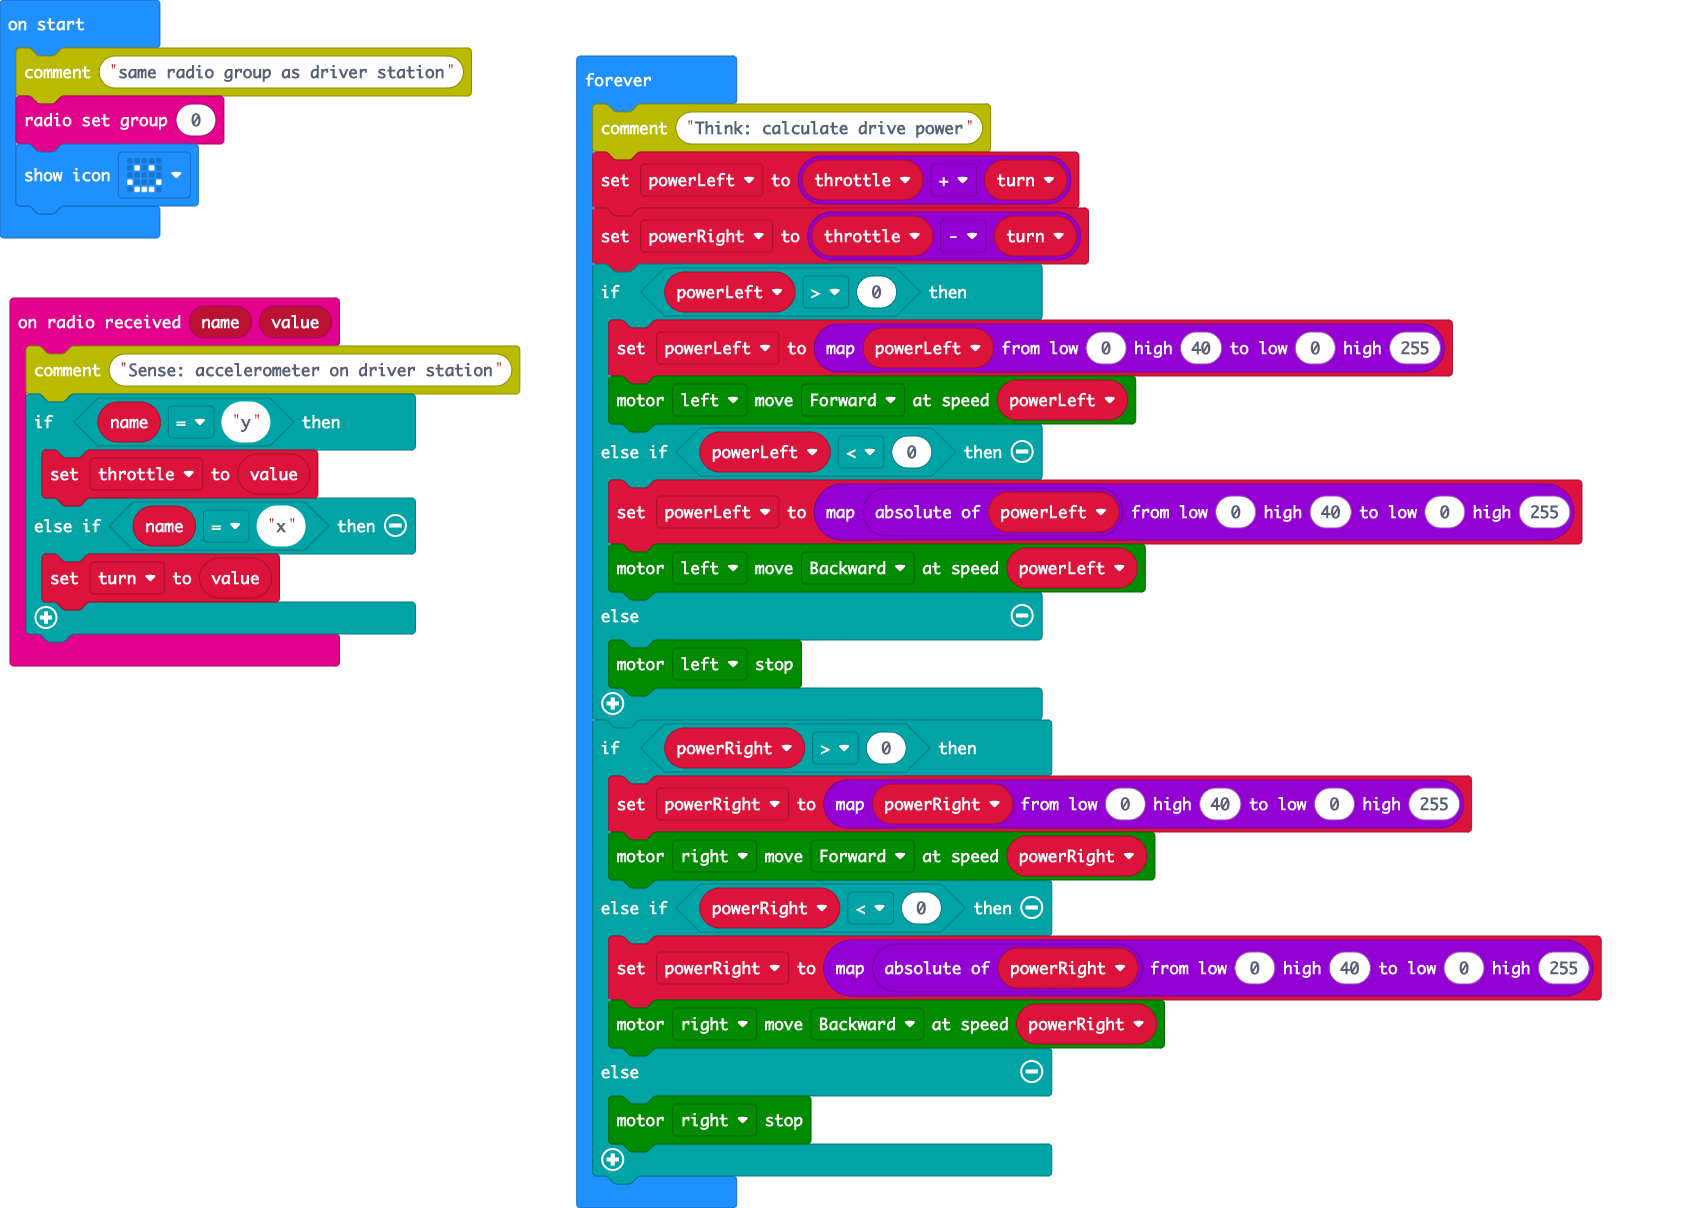
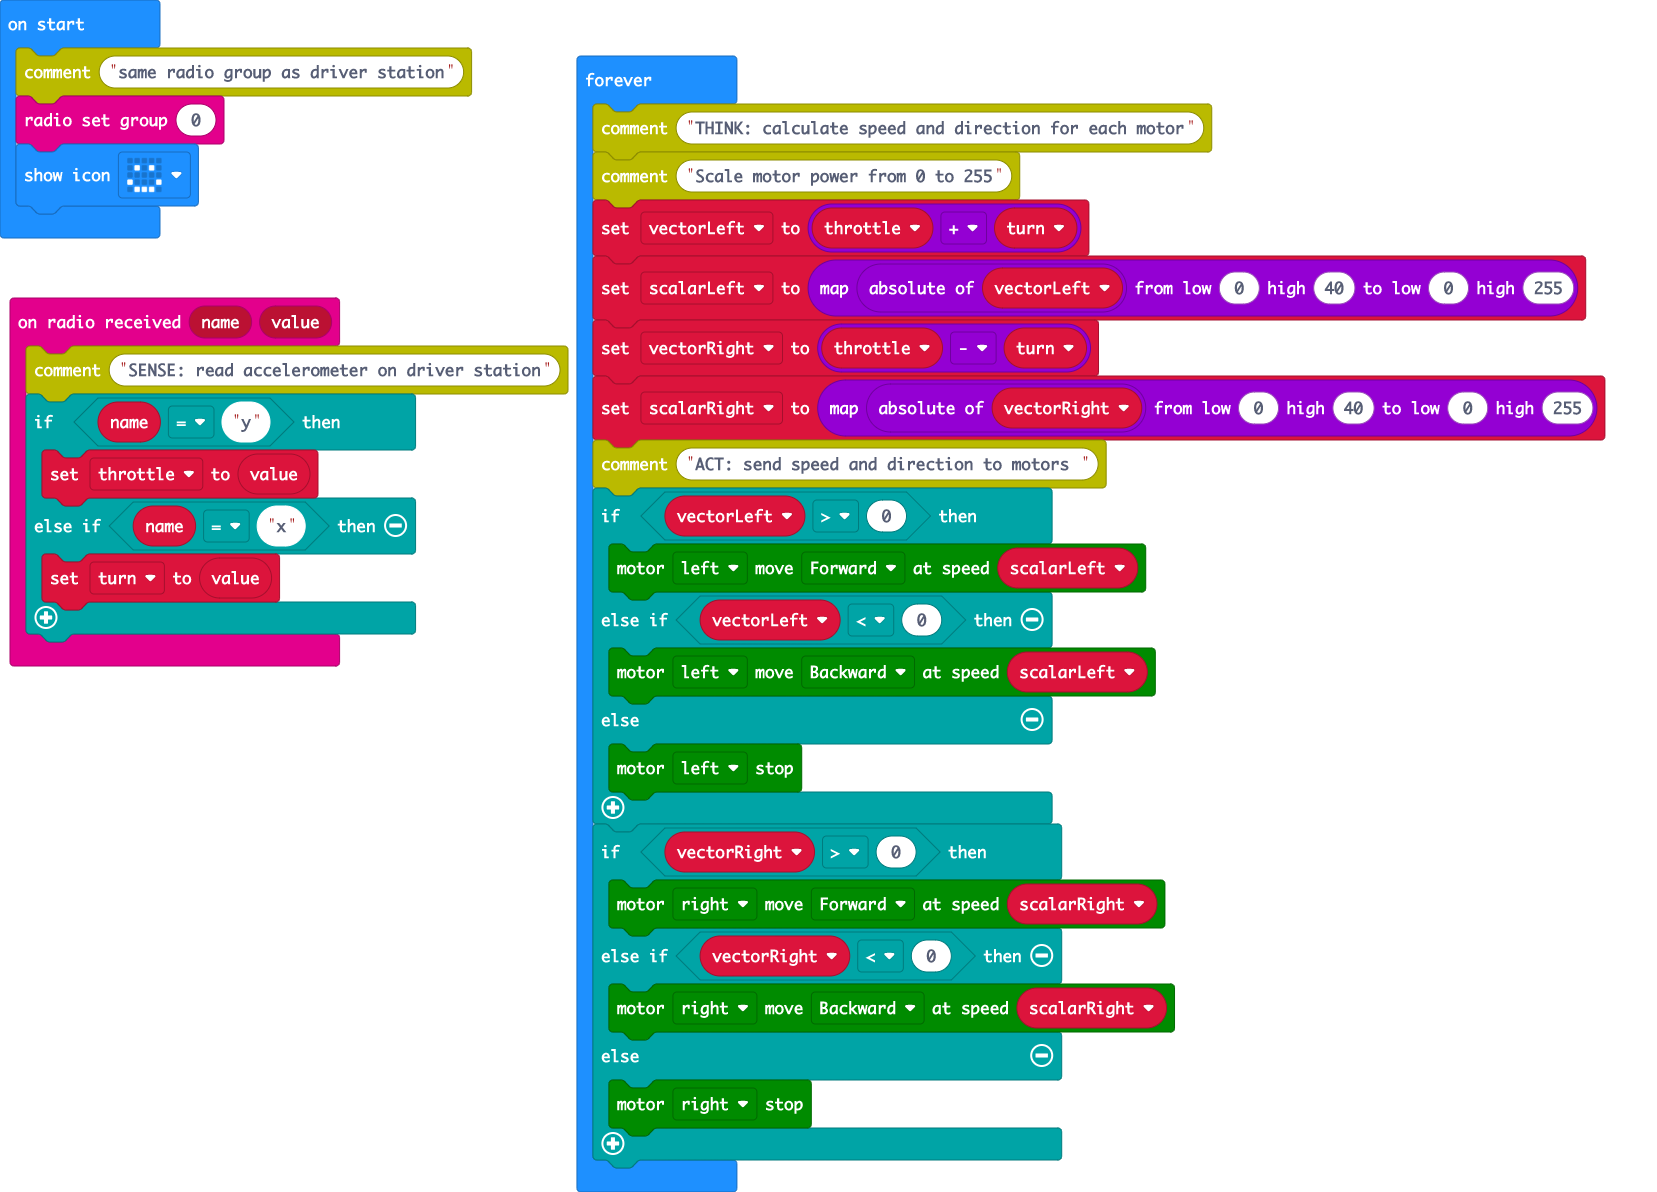
Update main.blocks, main.ts

diff --git a/main.ts b/main.ts
@@ -1,37 +1,39 @@
 radio.onReceivedValue(function (name, value) {
-    comment.comment("Sense: accelerometer on driver station")
+    comment.comment("SENSE: read accelerometer on driver station")
     if (name == "y") {
         throttle = value
     } else if (name == "x") {
         turn = value
     }
 })
-let powerRight = 0
-let powerLeft = 0
+let scalarRight = 0
+let vectorRight = 0
+let scalarLeft = 0
+let vectorLeft = 0
 let turn = 0
 let throttle = 0
 comment.comment("same radio group as driver station")
 radio.setGroup(0)
 basic.showIcon(IconNames.Happy)
 basic.forever(function () {
-    comment.comment("Think: calculate drive power")
-    powerLeft = throttle + turn
-    powerRight = throttle - turn
-    if (powerLeft > 0) {
-        powerLeft = Math.map(powerLeft, 0, 40, 0, 255)
-        maqueen.motorRun(maqueen.Motors.M1, maqueen.Dir.CW, powerLeft)
-    } else if (powerLeft < 0) {
-        powerLeft = Math.map(Math.abs(powerLeft), 0, 40, 0, 255)
-        maqueen.motorRun(maqueen.Motors.M1, maqueen.Dir.CCW, powerLeft)
+    comment.comment("THINK: calculate speed and direction for each motor")
+    comment.comment("Scale motor power from 0 to 255")
+    vectorLeft = throttle + turn
+    scalarLeft = Math.map(Math.abs(vectorLeft), 0, 40, 0, 255)
+    vectorRight = throttle - turn
+    scalarRight = Math.map(Math.abs(vectorRight), 0, 40, 0, 255)
+    comment.comment("ACT: send speed and direction to motors ")
+    if (vectorLeft > 0) {
+        maqueen.motorRun(maqueen.Motors.M1, maqueen.Dir.CW, scalarLeft)
+    } else if (vectorLeft < 0) {
+        maqueen.motorRun(maqueen.Motors.M1, maqueen.Dir.CCW, scalarLeft)
     } else {
         maqueen.motorStop(maqueen.Motors.M1)
     }
-    if (powerRight > 0) {
-        powerRight = Math.map(powerRight, 0, 40, 0, 255)
-        maqueen.motorRun(maqueen.Motors.M2, maqueen.Dir.CW, powerRight)
-    } else if (powerRight < 0) {
-        powerRight = Math.map(Math.abs(powerRight), 0, 40, 0, 255)
-        maqueen.motorRun(maqueen.Motors.M2, maqueen.Dir.CCW, powerRight)
+    if (vectorRight > 0) {
+        maqueen.motorRun(maqueen.Motors.M2, maqueen.Dir.CW, scalarRight)
+    } else if (vectorRight < 0) {
+        maqueen.motorRun(maqueen.Motors.M2, maqueen.Dir.CCW, scalarRight)
     } else {
         maqueen.motorStop(maqueen.Motors.M2)
     }
